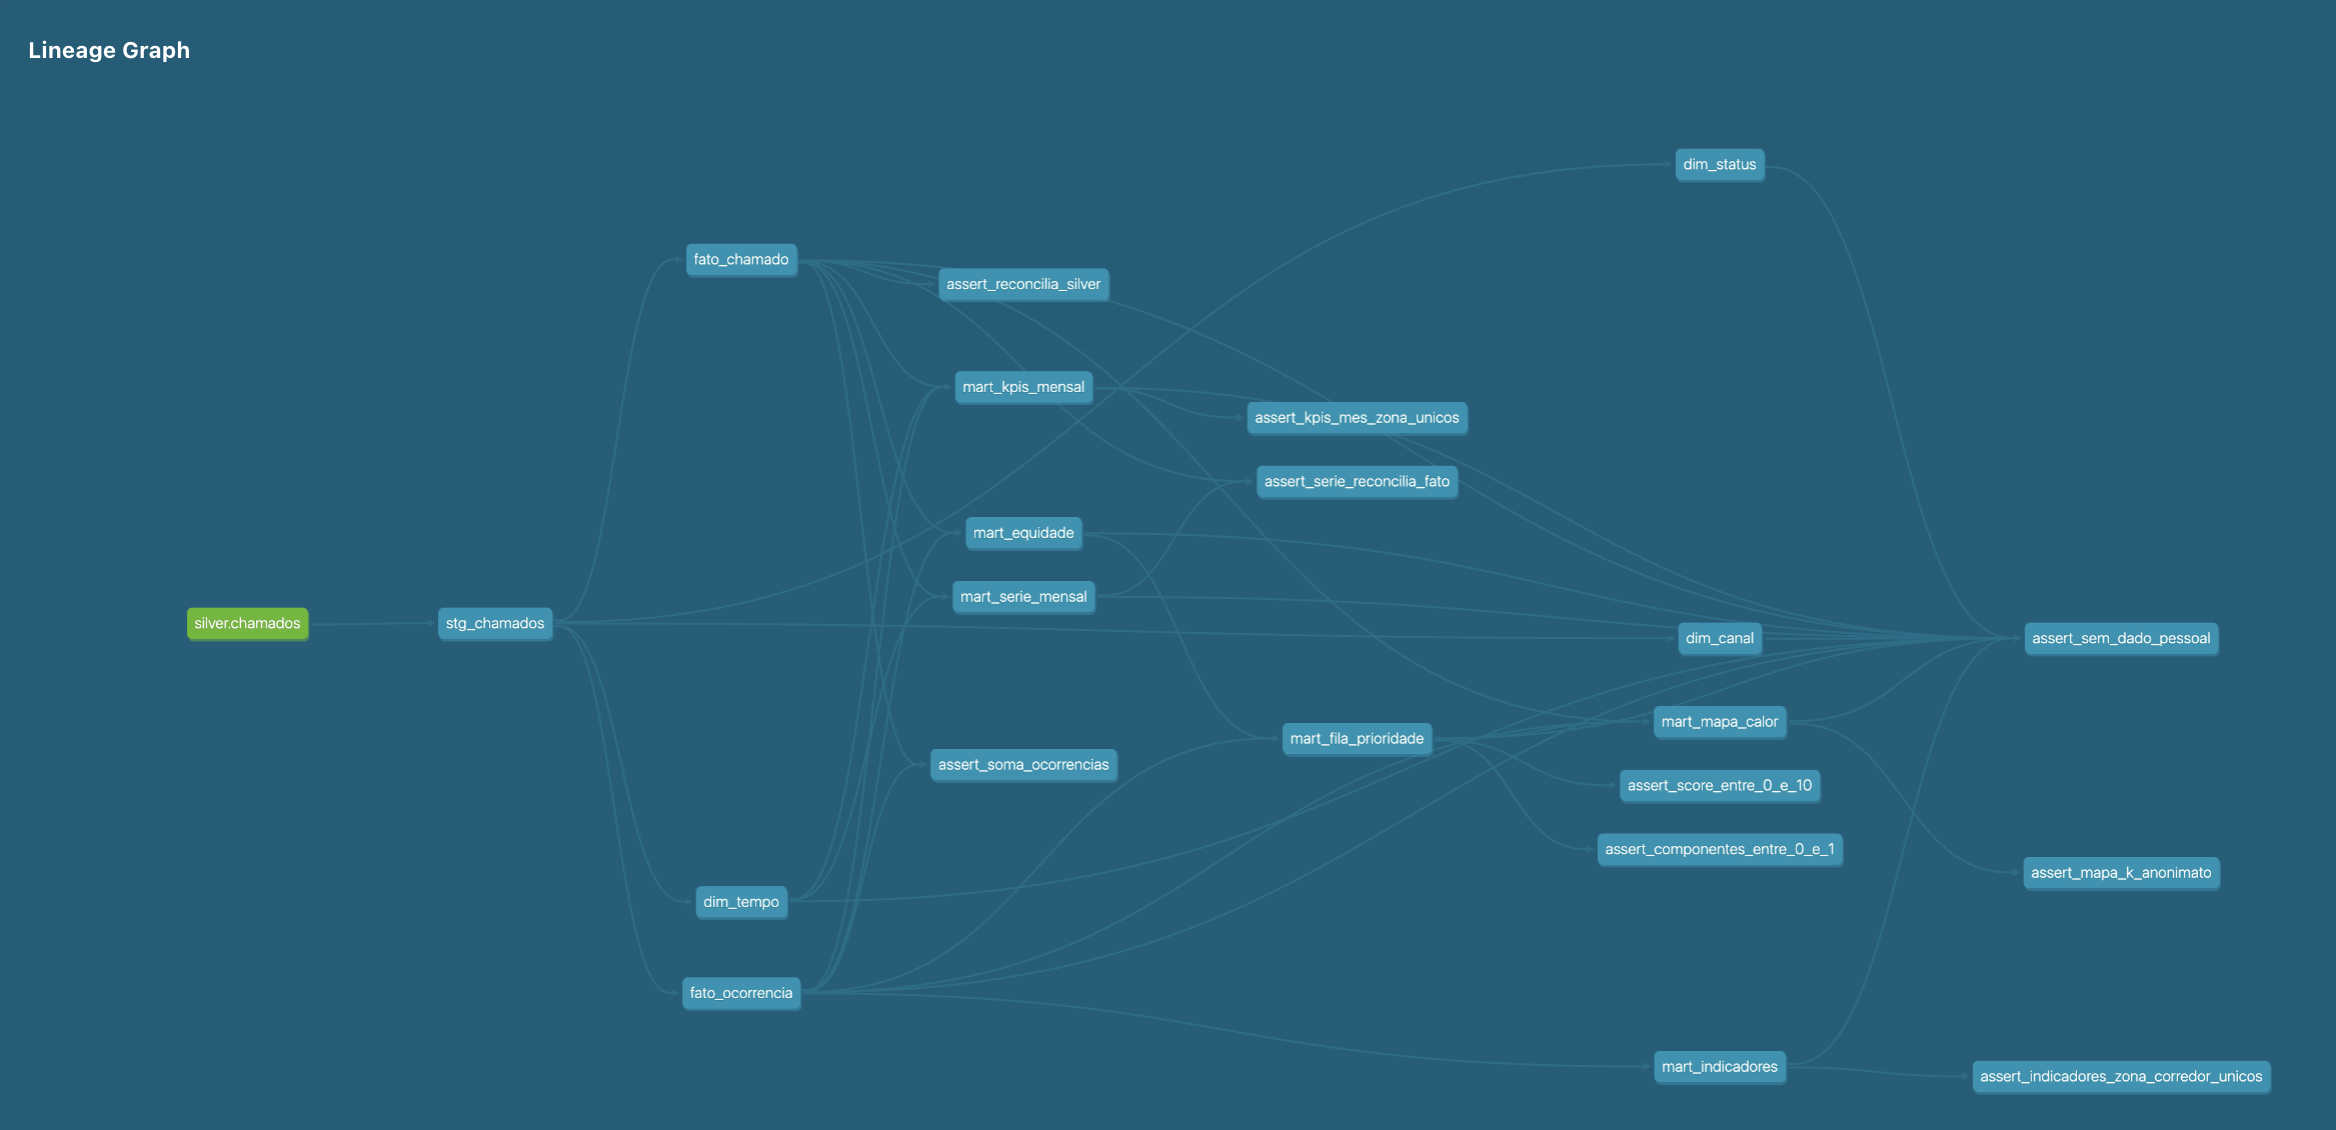
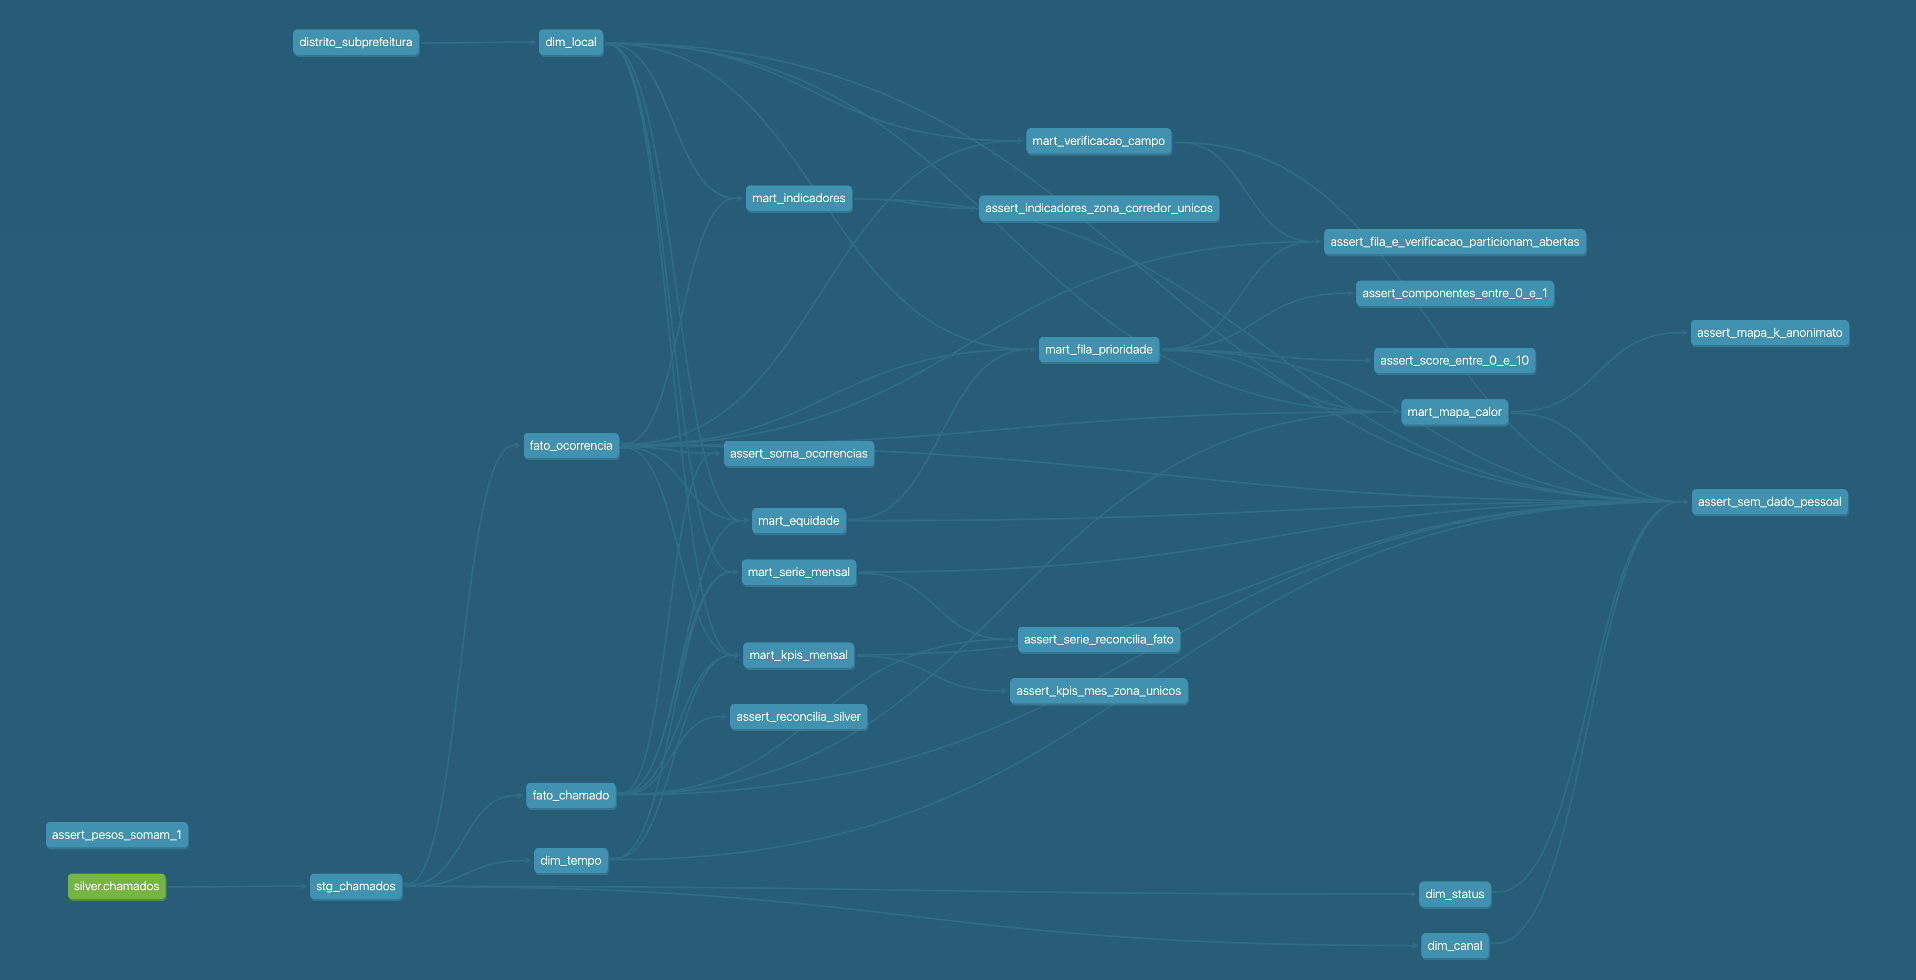
docs: Mede a reincidência com grupo de controle e alinha README e roteiro
Faixa de 0–80 m contra 80–160 m: 45,2% contra 34,7%, então só cerca de 10 p.p. são atribuíveis ao mesmo ponto, e no corredor o excesso é menor que no resto. Corrige a frase sobre a Rua Anoriaçu e documenta as duas listas e o peso da via no topo.

diff --git a/README.md b/README.md
@@ -52,8 +52,14 @@ r8). Numa amostra de 5.000 chamados *com* distrito, tirados dos eleitores, a vot
 **Ocorrência = componente conexo.** Dois chamados são do mesmo problema se estão na mesma rua, a
 até 80 m, e foram abertos com até 7 dias de diferença ou antes de o mais antigo ser finalizado;
 nenhuma ligação passa de 365 dias. As ligações formam um grafo, e cada componente conexo é uma
-ocorrência (A–B e B–C juntam A, B e C), com um id determinístico. Uma ocorrência que surge no mesmo
-ponto depois de outra resolvida é uma **reincidência**.
+ocorrência (A–B e B–C juntam A, B e C), com um id determinístico. Uma ocorrência que surge a até
+80 m, na mesma rua, de outra encerrada no ano anterior é contada como **reincidência**, e um grupo de
+controle mede quanto disso é de fato o mesmo ponto (ver Achados).
+
+**Duas listas, porque são duas perguntas.** A fila de despacho só tem abertas há até 180 dias,
+ordenadas pelo score de prioridade. As mais antigas vão para uma lista de **verificação em campo**,
+ordenada pelos dias em aberto: o status delas pode estar desatualizado, e a pergunta é "isso ainda
+existe?", não "qual atender primeiro?".
 
 ## Achados
 
@@ -74,13 +80,20 @@ até 80 m e em ±7 dias, e 30.118 são gêmeos exatos (mesmo ponto, mesmo dia, m
 chamados válidos viram **129.449 ocorrências**, 1,9 chamados por problema.
 
 **A rajada da Rua Anoriaçu.** Um único problema reuniu **361 chamados**: dois focos a 72 m um do
-outro, 96% pelo aplicativo, em rajadas de 70 a 122 por mês, com 189 ainda abertos. Contar
-chamados aqui superestimaria o problema em mais de 300 vezes.
+outro, 96% pelo aplicativo, em rajadas de 70 a 122 por mês, com 189 ainda abertos. **361 pedidos
+viraram uma única ocorrência registrada.** Se os dois focos são o mesmo trecho estragado ou dois
+buracos vizinhos, os dados não dizem: a ocorrência tem 164 m de extensão, por encadeamento.
 
-**O buraco volta.** **45% das ocorrências** (58.451) surgem no mesmo ponto de um problema já
-encerrado; 17.512 voltaram três vezes ou mais, e o recorde é 23. No corredor de ônibus, 69% das
-ocorrências dos últimos 12 meses são reincidências, contra 55% no resto da cidade, e os reparos
-dos últimos 90 dias levaram 14 dias de mediana, contra 6.
+**Perto de um problema encerrado, mas nem sempre o mesmo buraco.** **45% dos problemas surgem a
+até 80 m de um problema já encerrado no último ano** (58.451 de 129.449). Isso não quer dizer que
+45% dos buracos voltam: em ruas com muitos chamados, um buraco diferente no mesmo quarteirão também
+entra, e 41,6% das repetições estão a exatamente 0 m, sinal de geocodificação pelo endereço. O
+controle é a faixa seguinte da mesma rua, com o mesmo comprimento: **a 80–160 m, 34,7% dos
+problemas também têm um encerrado antes**. Só o excesso, cerca de **10 pontos percentuais**, é
+atribuível ao mesmo ponto. No corredor de ônibus a taxa bruta é maior (58,7%), mas o controle
+também é (52,6%): o excesso ali é de 6 pontos, menor que no resto da cidade (10,6). O corredor tem
+mais chamados por metro, não mais reincidência. O que o corredor tem de fato é reparo mais lento:
+nos últimos 90 dias, 14 dias de mediana contra 6.
 
 ## Como rodar
 
@@ -93,8 +106,9 @@ make pipeline     # bronze -> silver -> gold (dbt) -> previsão, ~1 min
 make painel       # http://localhost:8501
 ```
 
-`make testes` roda o pytest e os testes de dados do dbt. No GitHub Actions, sem os dados, os testes
-sintéticos rodam e os de dados reais são pulados.
+`requirements.txt` tem só o que a pipeline e o painel usam. Para os testes e os notebooks, instale
+`requirements-dev.txt`; `make testes` roda o pytest e os testes de dados do dbt. No GitHub Actions,
+sem os dados, os testes sintéticos rodam e os de dados reais são pulados.
 
 ![Painel](docs/painel.png)
 
@@ -115,6 +129,12 @@ sintéticos rodam e os de dados reais são pulados.
 - **Não há dado de severidade.** O arquivo não diz o tamanho nem o risco do buraco; a fila usa
   aproximações (tempo de espera, tipo de via, número de chamados, reincidência). "Finalizado" no
   SP156 também não garante conserto: a reincidência mede volta depois do encerramento do chamado.
+- **A reincidência está inflada pela densidade.** Só cerca de 10 dos 45 pontos percentuais são
+  atribuíveis ao mesmo ponto (ver Achados). O componente de reincidência do score herda essa
+  inflação; com peso de 15%, isso é aceitável, mas favorece ruas com muitos chamados.
+- **A via domina o topo da fila.** O corredor de ônibus vale 1,0 contra 0,7 de uma avenida, o que
+  dá 0,75 ponto a mais no score: 17 das 20 primeiras posições estão em corredor, que é só 3,8% da
+  fila.
 
 Detalhes do modelo estrela, do score de prioridade, da previsão e das medições:
 [docs/referencia_tecnica.md](docs/referencia_tecnica.md).

diff --git a/docs/referencia_tecnica.md b/docs/referencia_tecnica.md
@@ -20,11 +20,12 @@ pessoal (número, CEP, protocolo, CPF, e-mail, telefone).
 
 | Tabela | Conteúdo |
 |---|---|
-| `marts.mart_fila_prioridade` | ocorrências abertas com os 5 componentes, o `score` (0 a 10), `posicao_fila` e `flag_verificar_em_campo` (abertas há mais de 180 dias) |
+| `marts.mart_fila_prioridade` | abertas há até 180 dias, com os 5 componentes, o `score` (0 a 10) e `posicao_fila` |
+| `marts.mart_verificacao_campo` | abertas há mais de 180 dias, das mais antigas para as mais novas: confirmar se ainda existem antes de despachar |
 | `marts.mart_kpis_mensal` | por mês de abertura e zona: chamados, ocorrências, taxa de resolução, tempo mediano de reparo, % de reincidência |
 | `marts.mart_mapa_calor` | por célula H3 r8, últimos 12 meses, só células com 3 ou mais chamados (k-anonimato) |
 | `marts.mart_equidade` | por subprefeitura: % de canais digitais, tempo de reparo (mediana e p90), % de abertas há mais de 90 dias |
-| `marts.mart_indicadores` | os 4 indicadores do painel para cada combinação de zona e corredor, com os totais (`group by cube`) |
+| `marts.mart_indicadores` | os 4 indicadores do painel para cada combinação de zona e corredor, com os totais (`group by cube`); taxa de resolução e reincidência sobre as ocorrências iniciadas de 15 a 3 meses antes da extração |
 | `marts.mart_serie_mensal` | chamados por mês, zona e corredor (contagens que se somam, para os filtros do painel) |
 | `marts.previsao_subprefeitura` | chamados previstos por subprefeitura nos 3 meses seguintes (`scripts/prever.py`) |
 | `marts.previsao_backtest` | previsto × real de 07 a 09/2026, treinando até 06/2026 |
@@ -34,7 +35,7 @@ pessoal (número, CEP, protocolo, CPF, e-mail, telefone).
 
 | Componente | Peso | Fórmula |
 |---|---|---|
-| espera | 0,30 | `dias_em_aberto / 30`, limitado a 1 |
+| espera | 0,30 | `dias_em_aberto / 180` (a fila só tem até 180 dias) |
 | via | 0,25 | corredor de ônibus 1,0 · avenida, estrada, viaduto ou ponte 0,7 · demais 0,4 |
 | demanda | 0,15 | `ln(1 + qtd_chamados) / ln(11)`, limitado a 1 |
 | reincidência | 0,15 | `numero_reincidencia / 3`, limitado a 1 |
@@ -42,15 +43,17 @@ pessoal (número, CEP, protocolo, CPF, e-mail, telefone).
 
 Como ler:
 
-- **A espera quase não diferencia as abertas.** 89% delas (14.881 de 16.708) têm 30 dias ou
-  mais e recebem o componente máximo; na prática a espera soma 3 pontos a quase todas, e a ordem
-  vem dos outros componentes.
-- **O topo tem empates.** O score máximo possível é 9,90, e não 10, porque a equidade é um
-  `percent_rank` e as 3 subprefeituras mais lentas empatam em 0,935. 19 ocorrências empatam em
-  9,90; entre elas, a mais antiga vem primeiro.
-- **O topo ainda é, em boa parte, passivo antigo.** 17 das 19 primeiras têm
-  `flag_verificar_em_campo` (46% das abertas passam de 180 dias); a primeira sem a flag está na
-  posição 18. Antes de despachar pelo topo, a equipe confirma o status em campo.
+- **Duas listas.** Das 16.708 abertas, 8.980 estão na fila e 7.728 (46%) na verificação em campo.
+  Antes da separação, com teto de espera de 30 dias, 89% das abertas tinham a espera no máximo e
+  17 das 19 primeiras posições eram passivo antigo.
+- **A espera voltou a diferenciar.** Com teto de 180 dias, só 0,3% da fila tem o componente em 1, e
+  o topo não tem empates (9,66, 9,62, 9,47).
+- **A via passou a dominar o topo.** 17 das 20 primeiras posições estão em corredor de ônibus, que
+  é só 3,8% da fila: o corredor vale 1,0 contra 0,7 de uma avenida (0,75 ponto de score).
+- **A reincidência do score está inflada pela densidade de chamados.** Pelo grupo de controle
+  (0–80 m contra 80–160 m), só cerca de 10 dos 45 pontos percentuais são atribuíveis ao mesmo
+  ponto. O componente herda essa inflação; com peso de 15% é aceitável, mas favorece ruas com
+  muitos chamados.
 - **% de reincidência cresce com o tempo por construção.** Uma reincidência precisa de uma
   ocorrência anterior dentro dos dados, que começam em 07/2024. Nos primeiros meses quase nada
   pode ser reincidência (3,7% em 07/2024 na zona Leste, contra mais de 50% em 2025): a subida é
@@ -92,6 +95,8 @@ graph LR
     dim_local --> mart_kpis_mensal
     fato_chamado --> mart_mapa_calor
     fato_ocorrencia --> mart_mapa_calor
+    fato_ocorrencia --> mart_verificacao_campo
+    dim_local --> mart_verificacao_campo
     mart_fila_prioridade --> mart_mapa_calor
     fato_chamado --> mart_equidade
     fato_ocorrencia --> mart_equidade

diff --git a/docs/roteiro_apresentacao.md b/docs/roteiro_apresentacao.md
@@ -31,24 +31,31 @@ Não rode a pipeline com o painel aberto (o DuckDB não aceita gravação com o 
 - Os chamados ligados formam um grafo; cada componente conexo é um problema físico.
   **244 mil chamados viram 129 mil problemas.**
 - **A rajada da Rua Anoriaçu:** um só problema com 361 chamados, 96% pelo aplicativo, 189 ainda
-  abertos. Contar chamados aqui erraria por mais de 300 vezes.
+  abertos. 361 pedidos viraram uma única ocorrência registrada (se é um trecho estragado ou dois
+  buracos vizinhos, os dados não dizem).
 
-## 4. O buraco que volta (45 s)
+## 4. O buraco que volta? (45 s)
 
-- **45% dos problemas** aparecem no mesmo ponto de um problema já encerrado; 17 mil voltaram três
-  vezes ou mais, e o recorde é 23.
-- No corredor de ônibus é pior: 69% de reincidência contra 55%, e o reparo leva 14 dias de mediana
-  contra 6.
+- **45% dos problemas surgem a até 80 m de um problema já encerrado no último ano.** Mas isso não
+  quer dizer que o mesmo buraco voltou.
+- Mesmo método dos 80 m: comparar com a faixa seguinte da rua, de 80 a 160 m. Lá, 35% também têm um
+  problema encerrado antes. **Só uns 10 pontos são atribuíveis ao mesmo ponto**; o resto é rua com
+  muito chamado.
+- O corredor de ônibus parecia pior (59% contra 45%), mas o controle também é maior: ele tem mais
+  chamados, não mais reincidência. O que o corredor tem de fato é reparo mais lento: 14 dias de
+  mediana contra 6.
 - Ressalva honesta: "finalizado" no SP156 é o encerramento do chamado, não a garantia de conserto.
 
 ## 5. A fila e o mapa, ao vivo (60 s)
 
-- **Indicadores no topo:** 16,7 mil problemas abertos, 6 dias de mediana para reparar.
+- **Indicadores no topo:** 16,7 mil problemas abertos (9 mil na fila, 7,7 mil a verificar em
+  campo), 6 dias de mediana para reparar. A taxa de resolução usa ocorrências de 15 a 3 meses atrás,
+  para não contar como "não resolvido" o que abriu ontem.
 - **Mapa:** os hexágonos H3 mostram onde se concentram os chamados do último ano.
 - **Fila:** abra o top 10 e o "Por que essa ordem?". O score combina espera, tipo de via, demanda,
   reincidência e equidade, com os pesos à vista.
-- Aponte a coluna "verificar em campo": problemas abertos há mais de 180 dias podem ter status
-  desatualizado, e a equipe confirma antes de despachar.
+- Mostre a lista **"Verificar em campo"**: problemas abertos há mais de 180 dias saem da fila,
+  porque a pergunta para eles é outra, "isso ainda existe?".
 - Filtre **Leste** e **corredor = sim**: tudo se recalcula.
 - Mostre a série mensal: as faixas do período chuvoso e a previsão. Conte que o modelo sazonal
   **perdeu** para "repetir o último mês" no backtest (erro de 144 contra 109), e por isso o painel
